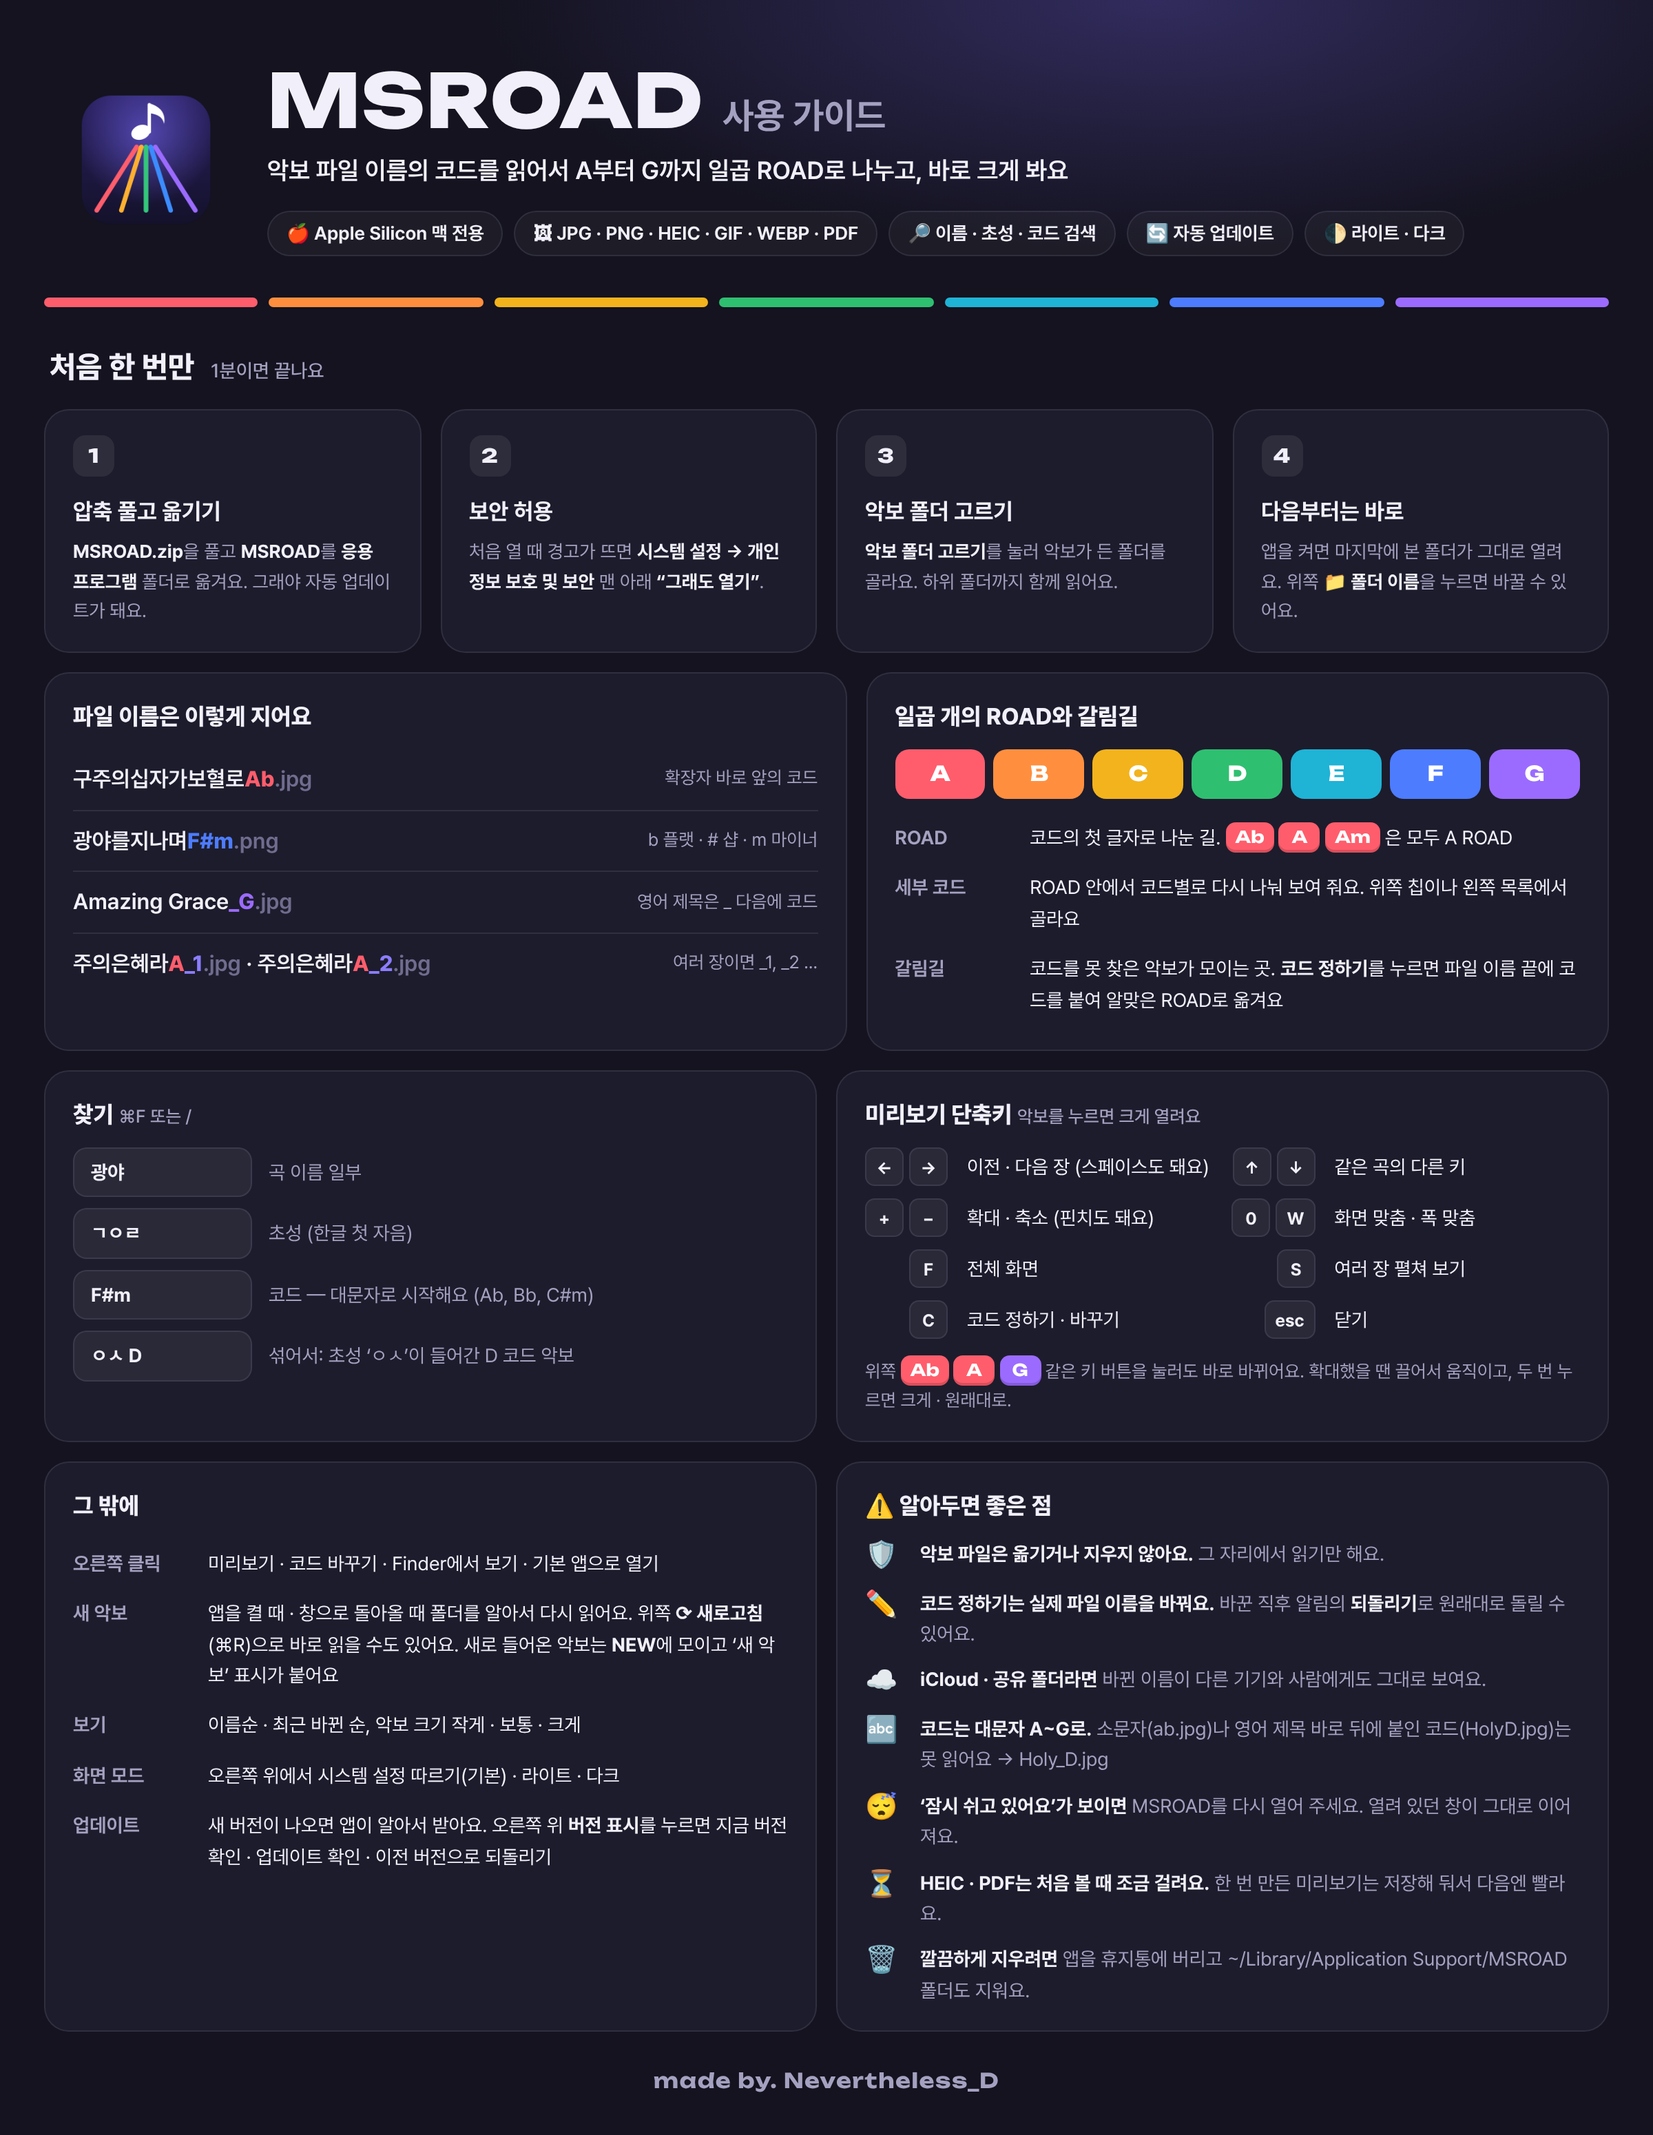
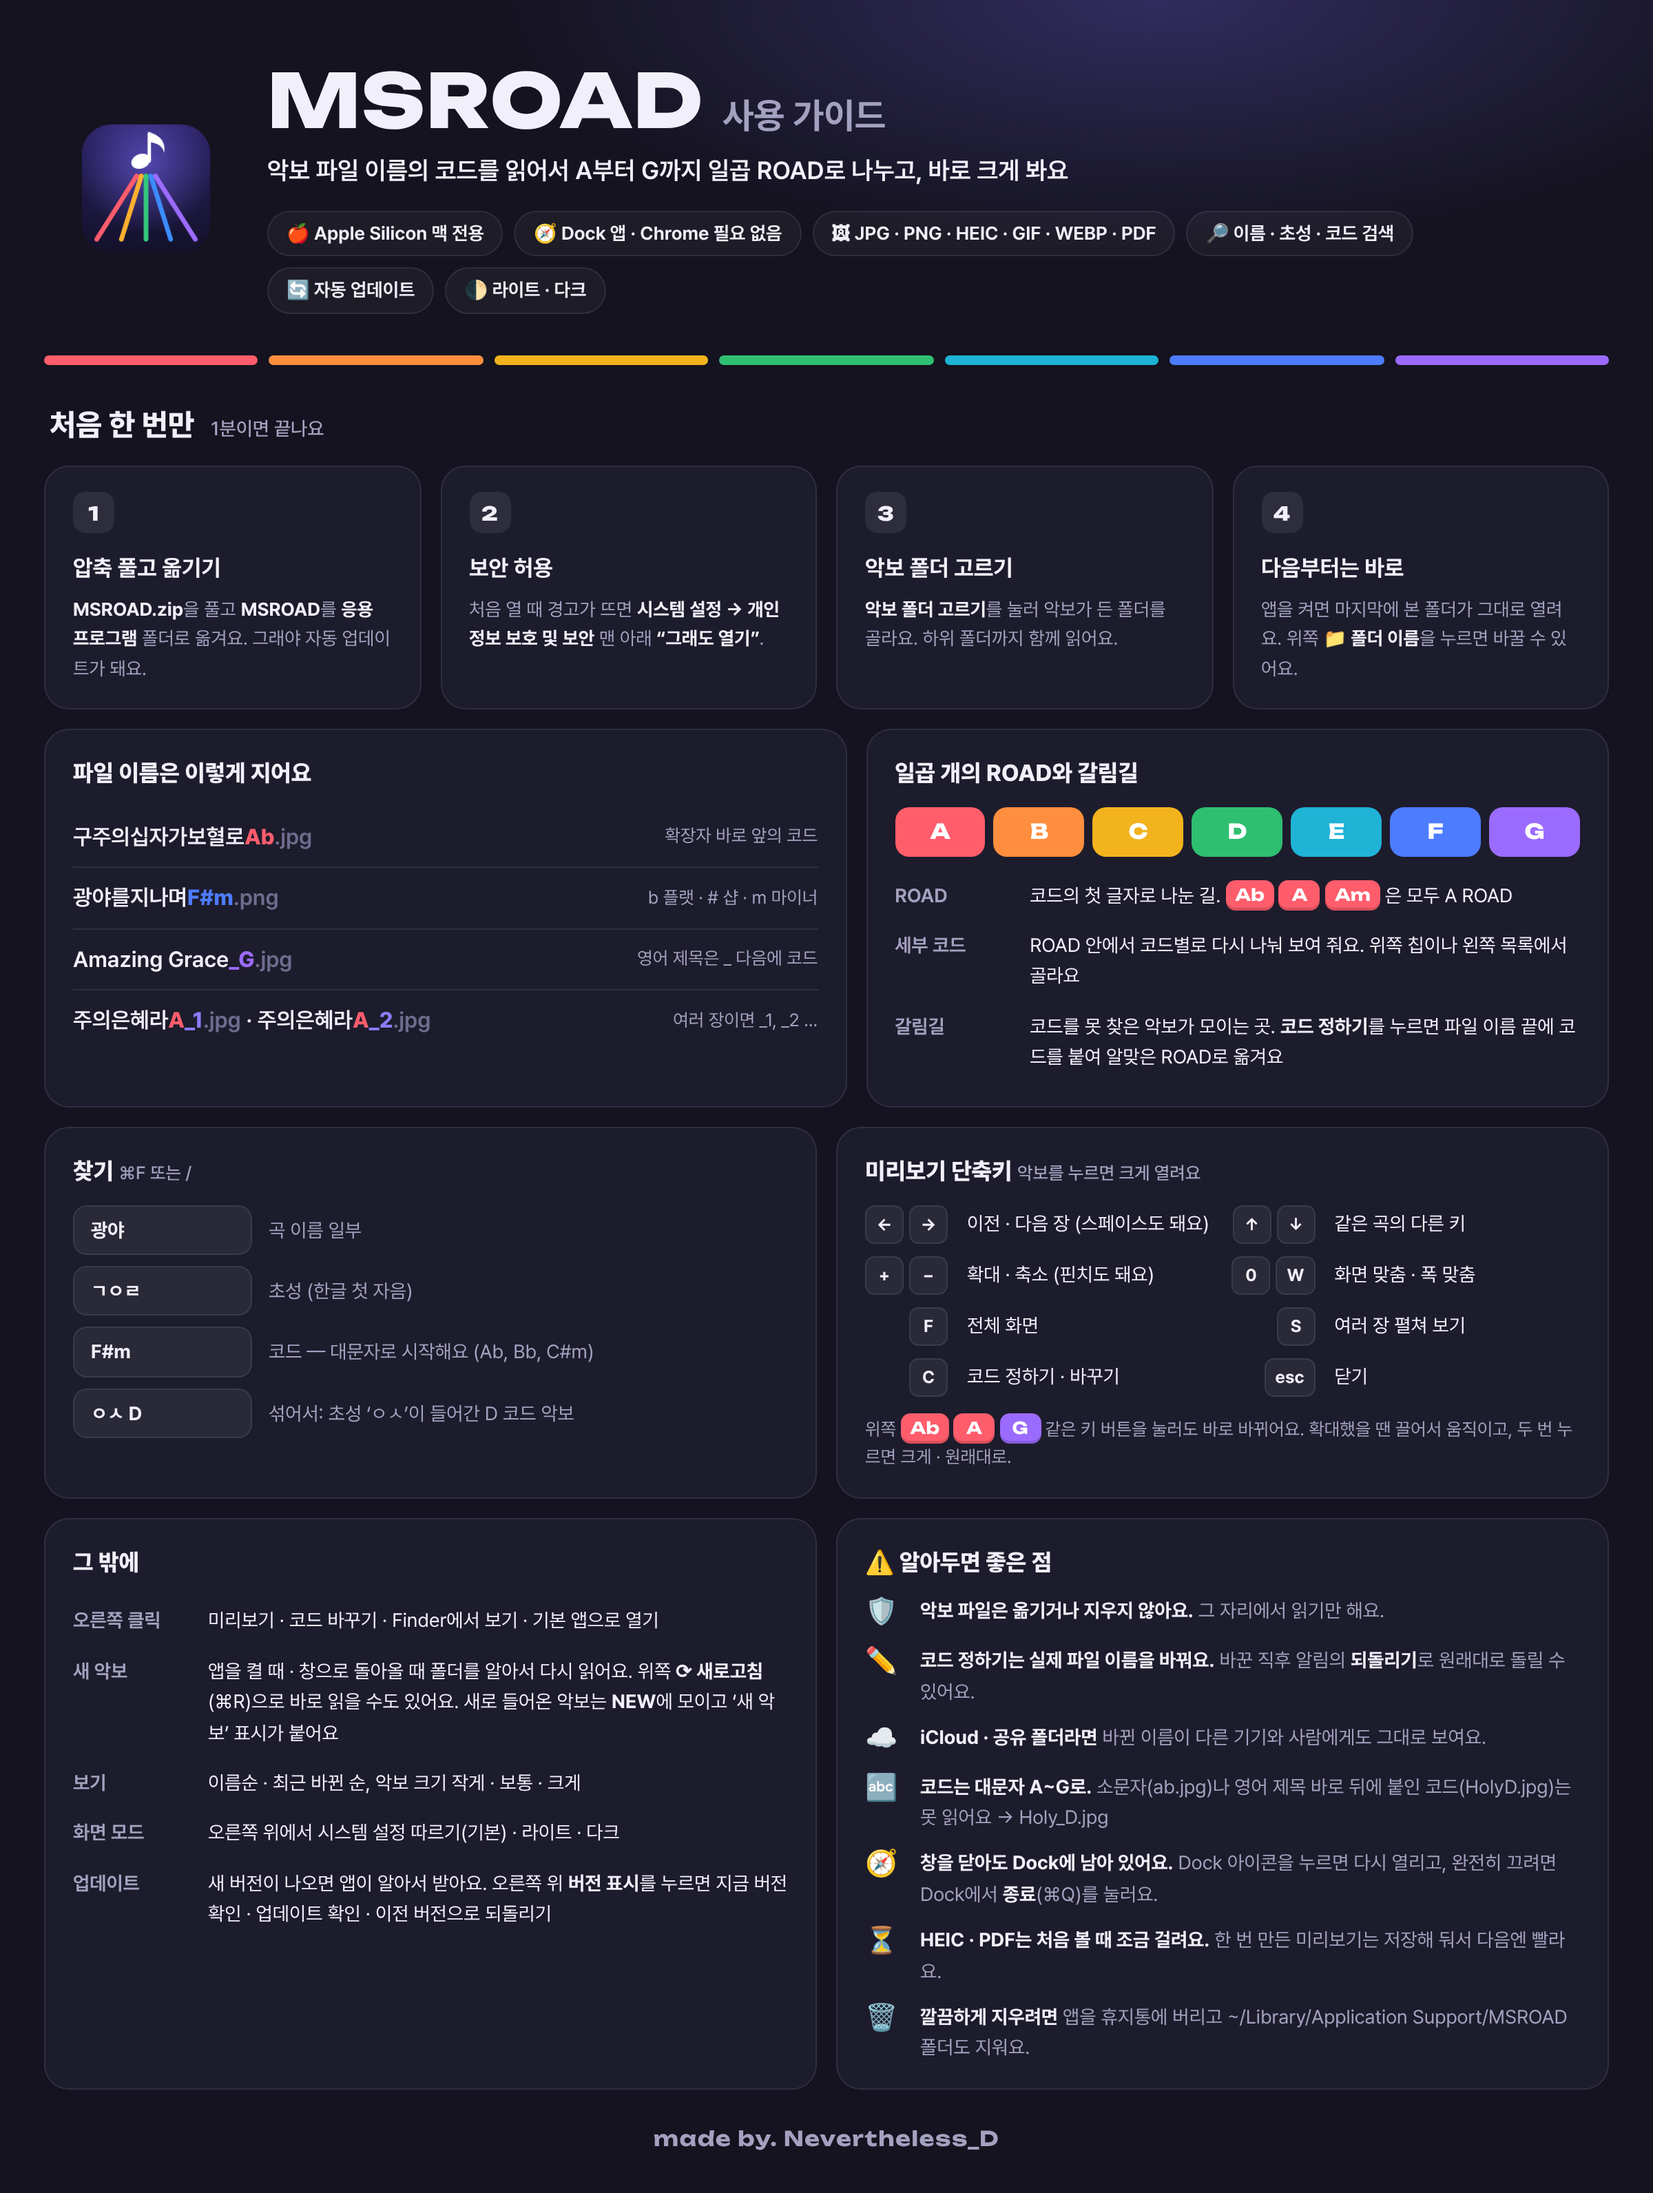
1.1.0: 사용 가이드(Dock 앱 안내) · 프로젝트 노트 · CLAUDE.md 갱신, 가이드도 처음 설치용 zip 에 담기도록 빌드 서버 경로 추가
Claude-Session: https://claude.ai/code/session_01BvtghX73ecpWtagcTVdv25

diff --git a/docs/guide.html b/docs/guide.html
@@ -74,6 +74,7 @@ kbd { display: inline-grid; place-items: center; min-width: 28px; height: 28px; 
     <p>악보 파일 이름의 코드를 읽어서 A부터 G까지 일곱 ROAD로 나누고, 바로 크게 봐요</p>
     <div class="pills">
       <span class="pill">🍎 Apple Silicon 맥 전용</span>
+      <span class="pill">🧭 Dock 앱 · Chrome 필요 없음</span>
       <span class="pill">🖼 JPG · PNG · HEIC · GIF · WEBP · PDF</span>
       <span class="pill">🔎 이름 · 초성 · 코드 검색</span>
       <span class="pill">🔄 자동 업데이트</span>
@@ -151,7 +152,7 @@ kbd { display: inline-grid; place-items: center; min-width: 28px; height: 28px; 
         <div class="tip"><span class="i">✏</span><div><strong>코드 정하기는 실제 파일 이름을 바꿔요.</strong> 바꾼 직후 알림의 <strong>되돌리기</strong>로 원래대로 돌릴 수 있어요.</div></div>
         <div class="tip"><span class="i">☁</span><div><strong>iCloud · 공유 폴더라면</strong> 바뀐 이름이 다른 기기와 사람에게도 그대로 보여요.</div></div>
         <div class="tip"><span class="i">🔤</span><div><strong>코드는 대문자 A~G로.</strong> 소문자(ab.jpg)나 영어 제목 바로 뒤에 붙인 코드(HolyD.jpg)는 못 읽어요 → Holy_D.jpg</div></div>
-        <div class="tip"><span class="i">😴</span><div><strong>‘잠시 쉬고 있어요’가 보이면</strong> MSROAD를 다시 열어 주세요. 열려 있던 창이 그대로 이어져요.</div></div>
+        <div class="tip"><span class="i">🧭</span><div><strong>창을 닫아도 Dock에 남아 있어요.</strong> Dock 아이콘을 누르면 다시 열리고, 완전히 끄려면 Dock에서 <strong>종료</strong>(⌘Q)를 눌러요.</div></div>
         <div class="tip"><span class="i">⏳</span><div><strong>HEIC · PDF는 처음 볼 때 조금 걸려요.</strong> 한 번 만든 미리보기는 저장해 둬서 다음엔 빨라요.</div></div>
         <div class="tip"><span class="i">🗑</span><div><strong>깔끔하게 지우려면</strong> 앱을 휴지통에 버리고 ~/Library/Application Support/MSROAD 폴더도 지워요.</div></div>
       </div>

diff --git a/CLAUDE.md b/CLAUDE.md
@@ -6,8 +6,10 @@ Talk to them in Korean, in plain words. Never ask them to use Terminal. It follo
 as their YTROAD and SROAD apps (bash launcher + Go engine + web UI in a Chrome `--app` window, self-update from `releases/latest.json`).
 Never mention GitHub (or the repo name) in anything the user sees.
 
-**macOS 27 (important for every script-type app):** when the app's main executable (the bash launcher) exits, macOS sends SIGTERM to
-everything that app started — `nohup`/`disown`/`setsid` don't help. So the engine is started as a separate background helper app
-(`Support/bin/MSROAD Engine.app`, launched with `open -g -j -n -a … --args --env MSROAD_X=…`) under a supervisor (`engine/supervise.go`)
-that ignores SIGTERM for the first 20 s and restarts the engine on crashes. Details and the test recipe are in PROJECT_NOTES.md (v1.0.4).
-`signal.Ignore` can't be undone with `signal.Reset` — use Notify + drain. In tests use `pkill -x`, never `pkill -f msroad-engine`.
+**Since 1.1.0 MSROAD.app is a real, visible Dock app** (Swift shell `app/shell/main.swift`, WKWebView window); the Go engine runs
+as its child only while the app is open. This follows macOS 27's "Background App Activity" rule (helpers are exempt while the app
+that launched them is in the Dock) instead of working around it — never reintroduce hidden helpers or SIGTERM-ignoring.
+The app can only be built on a Mac: pushing changes under app/, engine/ or VERSION triggers `.github/workflows/build-mac.yml`, which builds,
+ad-hoc signs, runs real-Mac smoke tests and force-pushes results to the `ci-results` branch (this session's proxy blocks the Actions API,
+so read results via git). Release with `scripts/release.sh`. Full history and the test recipe are in PROJECT_NOTES.md.
+`signal.Ignore` can't be undone with `signal.Reset`. In tests use `pkill -x`, never `pkill -f msroad-engine`.
